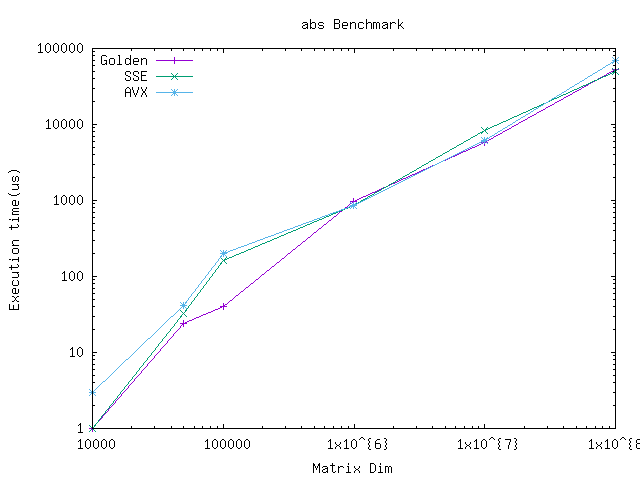
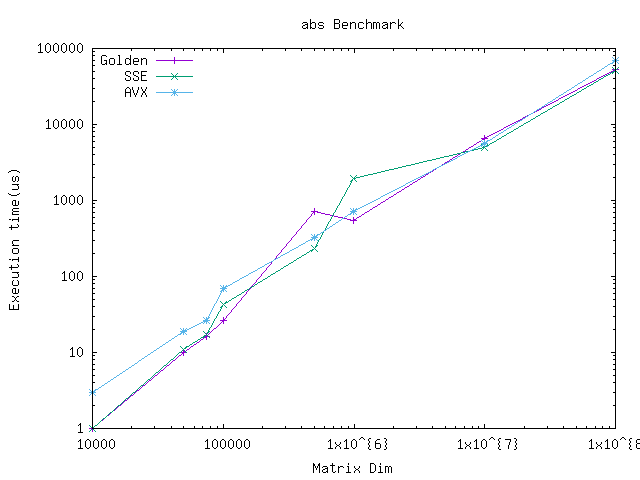
Maniaddhanki/Maneesh : Handling case when array size is not divisible by 4 or 8

diff --git a/src/abs.cpp b/src/abs.cpp
@@ -29,7 +29,6 @@ void abs_sse(std::vector<int> &arr, std::vector<int> &abs_arr) {
   size_t limit = quot * simd_width;
 
   for (size_t i = 0; i < limit; i += simd_width) {
-    // __m128i arr_r = _mm_load_si128(_mm_set1_epi32(arr.data()));
     const __m128i temp_arr =
         _mm_set_epi32(arr[i + 3], arr[i + 2], arr[i + 1], arr[i]);
     __m128i arr_r = _mm_abs_epi32(temp_arr);
@@ -38,6 +37,10 @@ void abs_sse(std::vector<int> &arr, std::vector<int> &abs_arr) {
       abs_arr[i + j] = _mm_cvtsi128_si32(arr_r);
       arr_r = _mm_srli_si128(arr_r, 4);
     }
+  }
+
+  for (size_t i = limit; i < arr.size(); i++) {
+    abs_arr[i] = abs(arr[i]);
   }
 }
 
@@ -57,6 +60,10 @@ void abs_avx(std::vector<int> &arr, std::vector<int> &abs_arr) {
     for (size_t j = 0; j < 8; j++) {
       abs_arr[i + (7 - j)] = _mm256_cvtsi256_si32(arr_r - j);
     }
+  }
+
+  for (size_t i = limit; i < arr.size(); i++) {
+    abs_arr[i] = abs(arr[i]);
   }
 }
 
